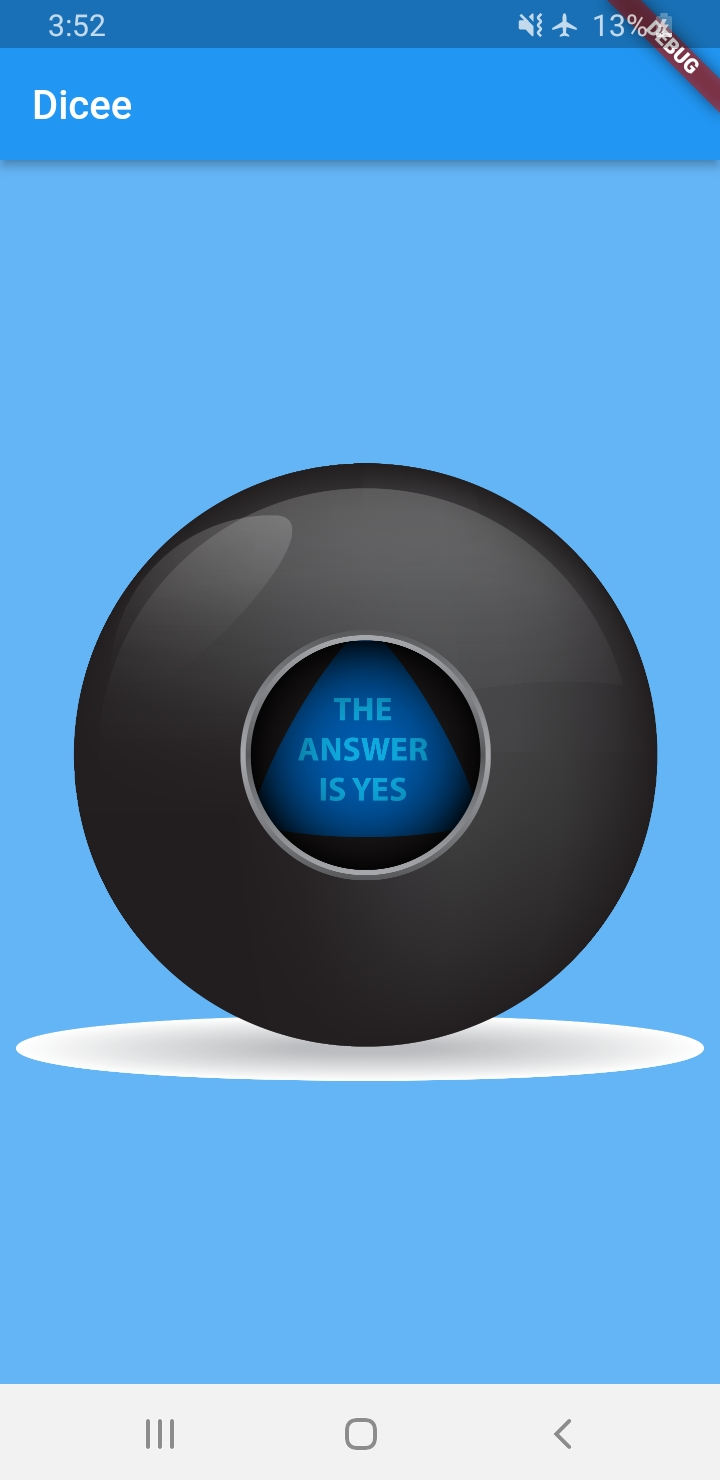
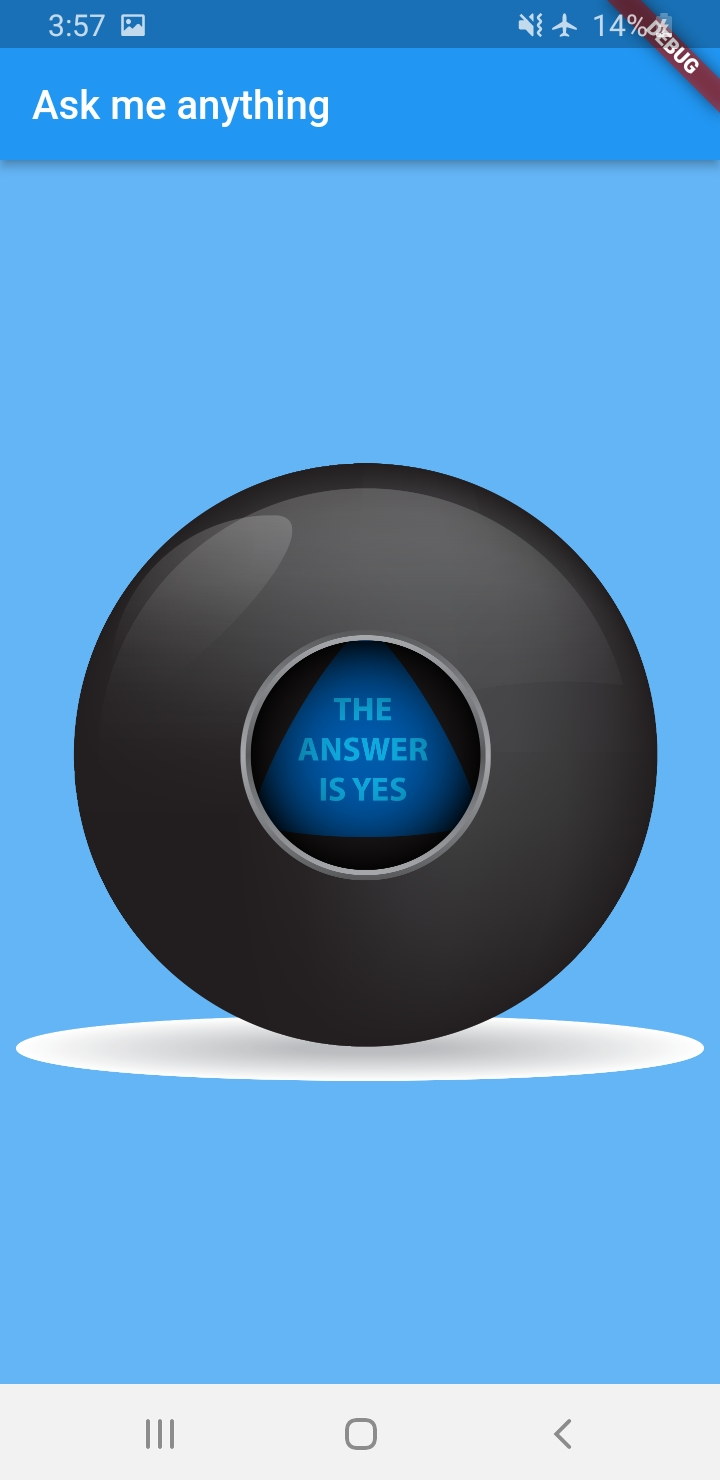
init commit

Changed region(s): [[0.0306, 0.0622, 0.4583, 0.0932], [0.1222, 0.0, 0.2139, 0.0311], [0.8556, 0.0, 0.8861, 0.0311]]

diff --git a/lib/main.dart b/lib/main.dart
@@ -15,7 +15,7 @@ class MainPage extends StatelessWidget {
       home: Scaffold(
         backgroundColor: Colors.blue.shade300,
         appBar: AppBar(
-          title: Text('Dicee'),
+          title: Text('Ask me anything'),
           backgroundColor: Colors.blue,
         ),
         body: ImagePage(),
